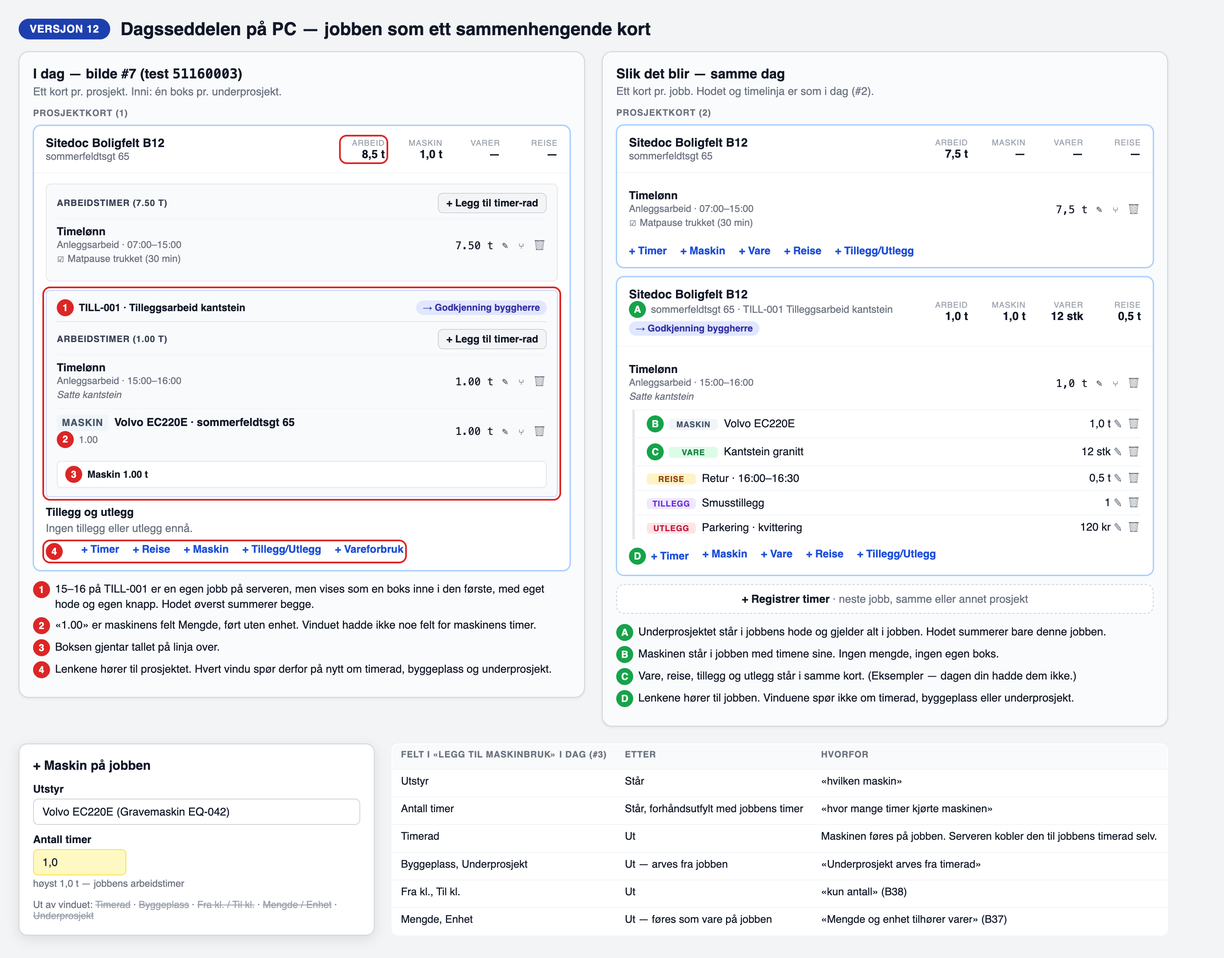
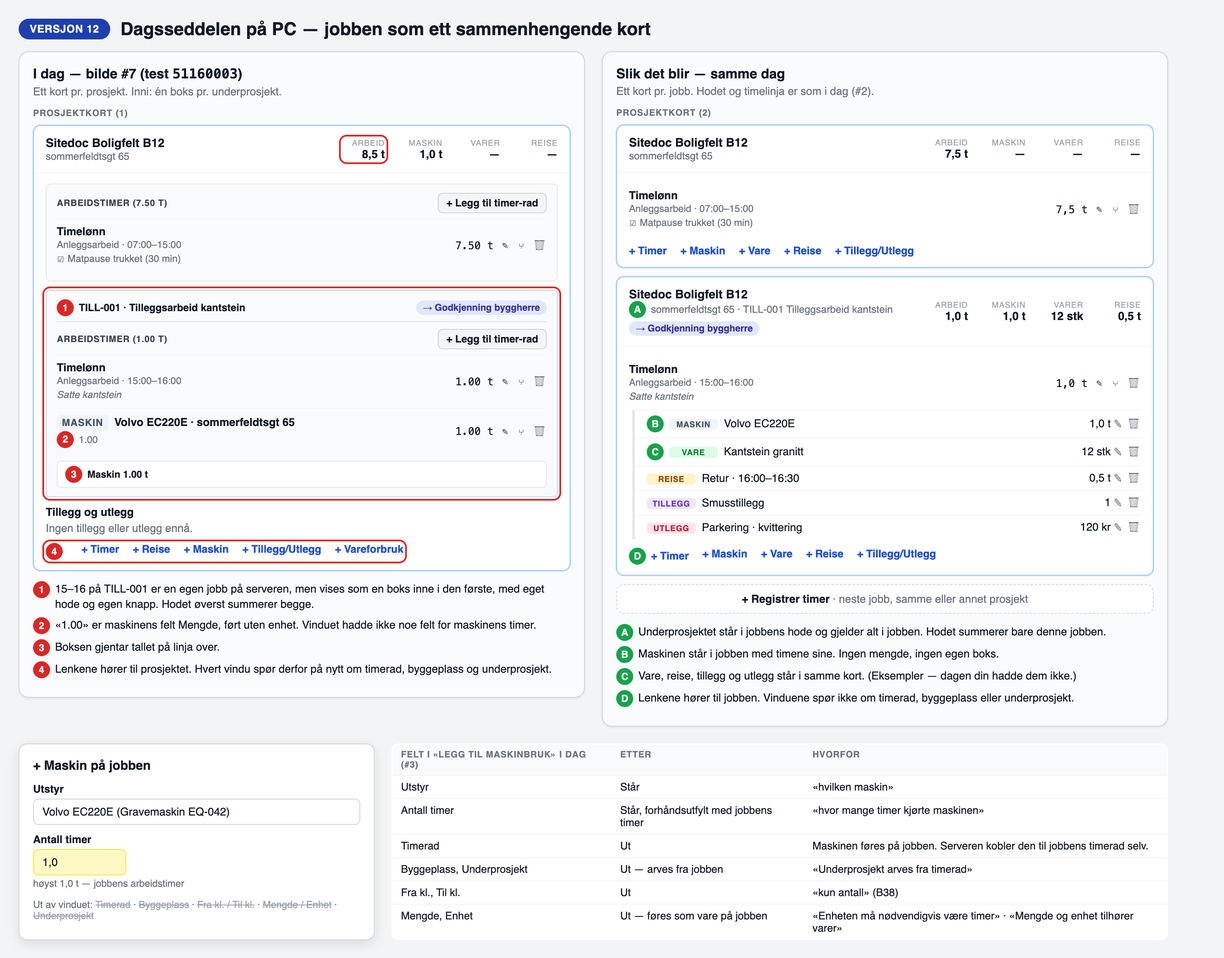
docs(plan): versjon 12 — Kenneths fire presiseringer arbeidet inn i avviksrunden
Maskinen føres bare i timer; mengde føres som vare på jobben (A4, H9 A
snudd av Kenneth). § 4.13 del D: hver type (maskin, vare, tillegg, utlegg,
reise) målt mot maskin-mønsteret. Del E: attesteringens kort viser
allerede alt; hullene kommer fra føringen på PC. B37 gjelder nå bare
prosjekter uten varelager. Skissen tegnet om.

diff --git a/docs/claude/skisser-web-timeforing/skisser-v12.html b/docs/claude/skisser-web-timeforing/skisser-v12.html
@@ -184,7 +184,7 @@ th{background:#f9fafb;font-size:10.5px;letter-spacing:.05em;text-transform:upper
       <tr><td>Timerad</td><td>Ut</td><td>Maskinen føres på jobben. Serveren kobler den til jobbens timerad selv.</td></tr>
       <tr><td>Byggeplass, Underprosjekt</td><td>Ut — arves fra jobben</td><td>«Underprosjekt arves fra timerad»</td></tr>
       <tr><td>Fra kl., Til kl.</td><td>Ut</td><td>«kun antall» (B38)</td></tr>
-      <tr><td>Mengde, Enhet</td><td>Ut — føres som vare på jobben</td><td>«Mengde og enhet tilhører varer» (B37)</td></tr>
+      <tr><td>Mengde, Enhet</td><td>Ut — føres som vare på jobben</td><td>«Enheten må nødvendigvis være timer» · «Mengde og enhet tilhører varer»</td></tr>
     </table>
   </div>
 </div>

diff --git a/docs/claude/web-timeforing-plan.md b/docs/claude/web-timeforing-plan.md
@@ -1,9 +1,9 @@
 ---
 name: web-timeforing-plan
-description: Plan med bilder steg for steg for timeføring på web — «+ Registrer timer» åpner én samlet registrering pr. jobb (fra/til, lønnsart, hva gjorde du, maskiner, varer, tillegg, utlegg), prosjekt og byggeplass utledet, dagen summeres etter hvert, overtid som egen linje mot dagsnormen for datoen, underprosjekt i jobbens hode, firmavalg for maskin med fra–til, og attestering med 13 kjernekolonner der et klikk åpner registreringen og lar attestanten dele opp. Versjon 5: dagsvisningen i attesteringen (B14) og firmavalget for attestantens egne timer (B15). Versjon 6: maskintimer høyst jobbens arbeidstimer, med unntak for døgn-maskiner (w9, § 4.4). Målt mot dagens web og telefon. B1–B23 besvart. Versjon 7: KS av attesteringen mot bilde 6–8 (§ 4.5) — avviksliste K1–K14, bilde 6 og 7 tegnet slik de gjelder, og retteordren w10. Versjon 8: én attestering på firmanivå for prosjektledere (§ 4.6) og hover-tekster (§ 4.8). Versjon 9: B29–B31 besvart — «Attestering» under Prosjekt fjernes med dødkode-liste (§ 4.10), reisen hører til prosjektet (§ 4.7), beskrivelsen står alltid i kortet (§ 4.9). Versjon 10: B32 B og B33 A besvart — reisen ligger i jobbens kort og attesteres med jobben, utreisen på dagens første prosjekt og returen på dagens siste (§ 4.11, w12 og w12m, med migrering). Versjon 11: B34 B besvart — arbeideren bestemmer hvor reisen føres; reisen beholder underprosjektet og byggeplassen han valgte og står i jobben som er ført samme sted (§ 4.11 del A punkt 3); w12 og w12m skrevet om; presiseringen om arbeid målt i § 4.12 — prosjekt og byggeplass og prosjekt og underprosjekt er begge gyldige i dag. Versjon 12: avviksrunde etter Kenneths test av dagsseddelen på PC (§ 4.13) — forklaringen på bilde #7, avvikslista A1–A14, w3 delt i w3a, w3b og w3c og bygget på kortet som finnes, mobildelene venter på web, B37 og B38 åpne.
+description: Plan med bilder steg for steg for timeføring på web — «+ Registrer timer» åpner én samlet registrering pr. jobb (fra/til, lønnsart, hva gjorde du, maskiner, varer, tillegg, utlegg), prosjekt og byggeplass utledet, dagen summeres etter hvert, overtid som egen linje mot dagsnormen for datoen, underprosjekt i jobbens hode, firmavalg for maskin med fra–til, og attestering med 13 kjernekolonner der et klikk åpner registreringen og lar attestanten dele opp. Versjon 5: dagsvisningen i attesteringen (B14) og firmavalget for attestantens egne timer (B15). Versjon 6: maskintimer høyst jobbens arbeidstimer, med unntak for døgn-maskiner (w9, § 4.4). Målt mot dagens web og telefon. B1–B23 besvart. Versjon 7: KS av attesteringen mot bilde 6–8 (§ 4.5) — avviksliste K1–K14, bilde 6 og 7 tegnet slik de gjelder, og retteordren w10. Versjon 8: én attestering på firmanivå for prosjektledere (§ 4.6) og hover-tekster (§ 4.8). Versjon 9: B29–B31 besvart — «Attestering» under Prosjekt fjernes med dødkode-liste (§ 4.10), reisen hører til prosjektet (§ 4.7), beskrivelsen står alltid i kortet (§ 4.9). Versjon 10: B32 B og B33 A besvart — reisen ligger i jobbens kort og attesteres med jobben, utreisen på dagens første prosjekt og returen på dagens siste (§ 4.11, w12 og w12m, med migrering). Versjon 11: B34 B besvart — arbeideren bestemmer hvor reisen føres; reisen beholder underprosjektet og byggeplassen han valgte og står i jobben som er ført samme sted (§ 4.11 del A punkt 3); w12 og w12m skrevet om; presiseringen om arbeid målt i § 4.12 — prosjekt og byggeplass og prosjekt og underprosjekt er begge gyldige i dag. Versjon 12: avviksrunde etter Kenneths test av dagsseddelen på PC (§ 4.13) — forklaringen på bilde #7, avvikslista A1–A14, w3 delt i w3a, w3b og w3c og bygget på kortet som finnes, hver type målt mot maskin-mønsteret og attesteringen målt mot Kenneths presiseringer, mobildelene venter på web, B37 og B38 åpne.
 sist_verifisert_mot_kode: 2026-11-19 (WM1–WM73: develop @ `b8b16571`; WM74–WM92: develop @ `ee7146e5`, etter w1, w2 og w5; WM93–WM108: develop @ `1afb318a`, etter w5b og w7; K1–K14 i § 4.5: develop @ `eedbc7cd`, etter w8, w9 og w9m; FA1–FA27 i § 4.6–4.8: develop @ `57770fc0`; FA16–FA21 på nytt, FA28–FA44 og DK1–DK15 i § 4.7, § 4.9 og § 4.10: develop @ `a5483f48`, 2026-11-20; FA45–FA59 i § 4.11: develop @ `bdf2320f`, 2026-11-20; FA60–FA65 i § 4.11 og FA66–FA70 i § 4.12: develop @ `8c260833`, 2026-11-20; § 4.13 (A1–A14): develop @ `d9354caa`, 2026-11-20)
 eier: fabel (plan) — orkestrator gater kode; Kenneth har vedtatt B1–B13 (§ 8.1)
-status: 🟡 FORSLAG 2026-11-20, versjon 12 — w1, w2, w5, w5b, w7, w8, w9, w9m, w10 del A, w10 del B og w12 er merget (§ 9.1–9.6; develop `c19cad6c`). Ikke bygget: w3 (nå w3a, w3b, w3c), w4, w6, w10c, w11 og w12m. Nytt i versjon 12, uten kode: avviksrunden etter Kenneths test av dagsseddelen på PC (§ 8.13, § 4.13). Dagssiden viser ett kort pr. prosjekt med en boks pr. underprosjekt, ikke ett kort pr. jobb; det forklarer bilde #7. w3 er skrevet om til å bygge på kortet og vinduet som finnes: w3a (kortet pr. jobb, arv og kort-id fra jobben, koblet maskin og vare følger timeraden på serveren), w3b (maskin er utstyr og antall timer) og w3c (resten av gamle w3). Mobildelene er merket «venter på web» i § 9. Åpent til Kenneth: B37 (maskinens mengde og enhet) og B38 (firmavalget for fra–til på maskin). w3a venter ikke på svarene; w3b venter på B37.
+status: 🟡 FORSLAG 2026-11-20, versjon 12 — w1, w2, w5, w5b, w7, w8, w9, w9m, w10 del A, w10 del B og w12 er merget (§ 9.1–9.6; develop `c19cad6c`). Ikke bygget: w3 (nå w3a, w3b, w3c), w4, w6, w10c, w11 og w12m. Nytt i versjon 12, uten kode: avviksrunden etter Kenneths test av dagsseddelen på PC (§ 8.13, § 4.13). Dagssiden viser ett kort pr. prosjekt med en boks pr. underprosjekt, ikke ett kort pr. jobb; det forklarer bilde #7. w3 er skrevet om til å bygge på kortet og vinduet som finnes: w3a (kortet pr. jobb, arv og kort-id fra jobben, koblet maskin og vare følger timeraden på serveren), w3b (maskin er utstyr og antall timer) og w3c (resten av gamle w3). Mobildelene er merket «venter på web» i § 9. Kenneths fire presiseringer samme dag er arbeidet inn: maskinen føres bare i timer, mengde føres som vare på jobben, alle typene følger maskin-mønsteret (§ 4.13 del D), og attesteringens kort viser allerede alt (del E). Åpent til Kenneth: B37 (hvor mengde føres på prosjekt uten varelager) og B38 (firmavalget for fra–til på maskin). w3a venter ikke på svarene; w3b venter på B37.
 ---
 
 # Timeføring på web — plan med bilder (FORSLAG)
@@ -1689,6 +1689,15 @@ står hvilken maskin og hvor mange timer, varene, reisen, tilleggene og utleggen
 «Varer» og «vareforbruk» er lest som det samme: varene som ble brukt på jobben. Kravet er det samme som
 føringene i § 1.
 
+**De fire presiseringene samme dag** (§ 8.13) er arbeidet inn slik:
+
+| Presisering | Hvor i runden |
+|---|---|
+| 1 — lastebilen: 08–10, 2 timer på bilen, 5 m3 grus eller pukk og parkeringsutlegget i samme jobb | Bildet over (høyre kort), A1, A9 og A10. Mengden føres som vare på jobben (A4, B37). |
+| 2 — maskinen føres i timer, og bare i timer | A3 og A4. Nedtrekket «Enhet» og feltet «Mengde» går ut av maskinføringen (w3b). |
+| 3 — maskinen er eksempelet for alle typene | Del D: hver type målt mot maskin-mønsteret. |
+| 4 — attestanten ser alt i sammenheng | Del E: attesteringen målt. |
+
 #### Del A — hva du så på #7, og hvorfor
 
 **Dataene er riktige. Visningen er feil.** 15–16 på TILL-001 er en egen jobb på serveren, og maskinen hører til
@@ -1736,7 +1745,7 @@ den. Dagssiden på PC viser ikke jobber. Den viser ett kort pr. prosjekt, med é
 |---|---|---|
 | Kortet er pr. prosjekt, ikke pr. jobb | Ja (bilde 5). Men tegnet som en ny flate med sju nummererte deler, ikke kortet du liker (#2). | — |
 | Maskin uten timer-felt; «Timerad»; fra–til | Ja (bilde 3, § 5). Fra–til ut til w6. | — |
-| Mengde og enhet på maskin | — | Bilde 3 viser dem ikke, men § 5 og § 7 sier ikke at de går ut. WM104 og H9 A sier at de består. → **B37** |
+| Mengde og enhet på maskin | — | Bilde 3 viser dem ikke, men § 5 og § 7 sier ikke at de går ut. WM104 og H9 A sier at de består. Kenneth 20.11.: de går ut av maskinføringen (A4). |
 | Underprosjekt arves i vinduene | Ja, for føring på jobben (underprosjektet i hodet gjelder alt). | Maskinvinduet som består for døgn-maskin. |
 | Maskin og vare følger ikke når radens underprosjekt byttes | — | Ingen del rører `oppdaterTimerRad`. |
 | Reisen i jobben på dagssiden | — | Bilde 2–5 har sju deler uten reise. § 7 sier «+ Reise … BEVARES uendret», og w12 sier «Reisevinduet på PC står urørt». |
@@ -1751,7 +1760,7 @@ den. Dagssiden på PC viser ikke jobber. Den viser ett kort pr. prosjekt, med é
 | **A1** | «Hvis #2 var et sammenhengende kort, så ville dette være perfekt.» | Kort pr. prosjekt, boks pr. underprosjekt (`WS:1709–1713`, `:2071–2100`). Serveren og attesteringen har jobben som enhet (`KG:136–159`). | w3: jobben som én flate (bilde 2–5). Ikke bygget. | Jobben er ikke enheten på dagssiden. | **w3a:** ett kort pr. jobb, med samme gruppering som attesteringen (`grupperPaaKort`). |
 | **A2** | «jeg liker hvordan #2 ser ut» · «rediger timer funger bra» | Kortets hode med fire tall, timelinja med lønnsart, tid, pause og tekst (`WS:1733–1782`, `:2483–2560`). | Bilde 2–5: ny flate med nummererte deler og uten vinduer. | Planen tegnet om det som virker. | **w3 skrives om:** kortet og timerad-vinduet beholdes. Bilde 2–5 gjelder som innhold og rekkefølge, ikke som utseende. Bildet over erstatter bilde 5 for dagssiden. |
 | **A3** | «hvor mange timer kjørte maskinen og hvilken maskin» | Maskindelen i timerad-vinduet har ikke timer; maskinen får radens (`WS:3798–3843`, `:3481`). «høyst» står under Mengde (`WS:3844–3851`). | § 5: brukeren skriver timene pr. maskin (bilde 3). Ikke bygget. | Timer kan ikke føres der maskinen velges. | **w3b:** maskin = utstyr + antall timer, forhåndsutfylt med jobbens timer, «høyst X t» ved feltet. |
-| **A4** | «Maskin skal heller ikke registrere mengde og enhet. Mengde og enhet tilhører varer.» | Felt i begge vinduene (`WS:3810–3843`, `:5343–5370`), lagres på maskinraden (`D:10113–10114`), vises i attestering, rapport og eksport (`packages/shared/src/utils/timerDetaljRader.ts:715`; `rapport.ts:685`, `:708`). | WM104 og H9 A (kort-id-specen): mengden gjelder produsert mengde og vises i egne kolonner. | Kravet strider mot vedtak. | **B37.** Med anbefalingen: ut av føringen i **w3b**. Lagrede verdier står. |
+| **A4** | «Enheten må nødvendigvis være timer, ikke kubikk og stykk og kvadrat» · «Mengde og enhet tilhører varer.» | Mengde og Enhet (m, m2, m3, kg, tonn, stk) står i begge maskinvinduene (`WS:87`, `:3810–3843`, `:5343–5370`), lagres på maskinraden (`D:10113–10114`) og vises i attestering, rapport og eksport (`packages/shared/src/utils/timerDetaljRader.ts:715`; `rapport.ts:685`, `:708`). | WM104 og H9 A (kort-id-specen): mengden gjelder produsert mengde og vises i egne kolonner. | Vedtaket er snudd av Kenneth 20.11. | **w3b:** feltene går ut av maskinføringen på PC i prosjektkort-modus. Mengden føres som vare på jobben: «Pukk · 5 m3». **Ingen data slettes:** det som alt er lagret på maskinrader, står og vises som før i attestering, rapport og eksport. Det flyttes ikke til varer, fordi raden ikke sier hvilken vare det var (HM22). **B37** gjelder prosjekter uten varelager. |
 | **A5** | «her skal ikke registreres timer fra/til -> kun antall» | Fra og til i maskinvinduet, forhåndsutfylt, og antallet må stemme med dem (`WS:1105–1106`, `:5175–5189`). Timerad-vinduet gir maskinen radens fra–til (`WS:3485–3486`). | B5: firmaet velger. B12 A: prosjektkort-firma får «Nei». w6, ikke bygget. | Feltene står til w6, og B5 lar et firma slå dem på igjen. | **w3b** tar feltene ut på PC i prosjektkort-modus nå. **B38** avgjør om w6 finnes. |
 | **A6** | «Underprosjekt arves fra timerad som standard» | Vinduene for maskin, tillegg, utlegg og reise åpnes fra prosjektet med tomt underprosjekt (`WS:1100–1109`, `:1097–1099`, `:3899–3900`). | § 7: ett valg i jobbens hode gjelder alt i jobben. Ikke bygget. | Ingenting arves. | **w3a:** lenkene står på jobben. Vinduene får jobbens prosjekt, byggeplass, underprosjekt og kort-id, og viser ikke feltene. Unntak: reisen (B34 B). |
 | **A7** | «Det er logiske brister i hvordan data knyttes sammen.» | Bytte av underprosjekt eller byggeplass på en timerad flytter ikke koblet maskin og vare (`D:4278–4300`, `:4376–4402`; `KI:311–323`). Maskin lagres med det vinduet sender (`D:10109–10110`). | Ikke nevnt for arbeiderens retting. Attestantens «hele jobben» flytter alt (w5). | Maskintimer kan stå på et annet underprosjekt enn arbeidet, også i timerapporten. | **w3a, serveren:** koblet maskin og vare følger timeraden. En maskin som føres koblet, lagres med timeradens underprosjekt og byggeplass. Bare PC-veiene; synken røres ikke. Rader som alt avviker, telles først (§ 10). |
@@ -1767,11 +1776,54 @@ den. Dagssiden på PC viser ikke jobber. Den viser ett kort pr. prosjekt, med é
 feltene det har (#4), «Dagens ramme», «Sum i dag», «Send dagen» og «+ Registrer timer». Dagskort-modus røres
 ikke (Kenneth 2026-11-07); `ProsjektGruppe` og `EcoGruppe` brukes av begge moduser og får vakt-test.
 
+#### Del D — hver type målt mot maskin-mønsteret (presisering 3)
+
+Mønsteret: typen henger på jobben, arver jobbens prosjekt, byggeplass og underprosjekt, og har bare feltene
+som hører til typen. `RK` = `apps/web/src/app/dashbord/timer/[id]/ReiseKort.tsx`,
+`KV` = `apps/web/src/components/timer/KortVareforbrukModal.tsx`.
+
+| Type | Vinduet i dag | Åpnes fra | Felt etter w3a og w3b | Felt som går ut av vinduet |
+|---|---|---|---|---|
+| **Maskin** | Utstyr, Timerad, Byggeplass, Antall timer, Fra kl., Til kl., Mengde, Enhet, Underprosjekt (`WS:5230–5388`) | Prosjektet (`WS:1100–1107`) | Utstyr · Antall timer | Timerad, Byggeplass, Fra kl., Til kl., Mengde, Enhet, Underprosjekt |
+| **Vare** | Prosjekt, Timerad, Byggeplass, Vare, Antall med varens enhet (`KV:96–135`) | Prosjektet (`WS:1111`) | Vare · Antall (enheten følger varen) | Prosjekt, Timerad, Byggeplass |
+| **Tillegg** | Tillegg, Antall, Kommentar, Kvittering, Byggeplass, Underprosjekt (`WS:3995`, `:4116–4260`) | Prosjektet (`WS:1109`) | Tillegg · Antall · Kommentar · Kvittering | Byggeplass, Underprosjekt |
+| **Utlegg** | Kategori, Beløp, Kommentar, Kvittering, Byggeplass, Underprosjekt (`WS:4645`, `:4790–4920`) | Prosjektet, via velgeren (`WS:1109`) | Kategori · Beløp · Kommentar · Kvittering | Byggeplass, Underprosjekt |
+| **Reise** | Tur, Retur eller annet kontor, Byggeplass, Underprosjekt (`RK:177`, `:298`). Tiden regnes av reiseregelen. | Prosjektet (`WS:1228–1243`) | Som i dag, med jobbens byggeplass og underprosjekt forhåndsvalgt | Ingen. Arbeideren bestemmer hvor reisen føres (B34 B). |
+
+- **Alle fem åpnes fra prosjektet i dag, ingen fra jobben.** Det er årsaken til at hvert vindu spør om sted på
+  nytt. w3a flytter lenkene til jobben (A6, A11).
+- **Feltene som går ut av vinduet, finnes fortsatt:** de står i jobbens hode og gjelder alt i jobben. Ingen
+  opplysning forsvinner.
+- **Vinduene består som de er i dagskort-modus,** og for en døgn-maskin eller vare som føres uten jobb.
+- **Serveren trenger ingen ny lagring.** Alle fem radtypene har alt kort-id, og vare og maskin har kobling til
+  timerad. Det som mangler, er at PC sender jobbens kort-id (A9) og at koblet maskin og vare følger timeraden
+  (A7).
+
+#### Del E — attesteringen målt mot presisering 4
+
+**Kortet i attesteringen viser allerede alt.** Et klikk på jobbraden åpner jobben med åtte deler: fra–til,
+lønnsart, «Hva gjorde du?», maskiner, varer, tillegg, utlegg og reise
+(`apps/web/src/components/attestering/RegistreringPanel.tsx:337–469`). Lista viser maskin og vare på
+timeradens linje, og tillegg, utlegg og reise som linjer i samme jobb (`KG:136–159`; w10 del B, w12).
+Bildet er `ks-attestering.png` (§ 4.5).
+
+**Det attestanten likevel ikke kan stole på, kommer fra føringen på PC:**
+
+| Hull | Årsak | Retting |
+|---|---|---|
+| Tillegg og utlegg kan stå i feil jobb når dagen har to jobber på samme sted | PC sender ikke kort-id; serveren velger den eldste jobben med samme nøkkel (A9). | w3a |
+| Maskintimene kan stå på et annet underprosjekt enn arbeidet i timerapporten, selv om attesteringen viser dem på jobbens linje | A7. | w3a, serveren |
+| Mengden på en maskin («1.00») sier ikke hva som er målt | A4, HM22. | w3b: nye føringer er varer. Gamle står som de er. |
+| Eldre rader uten kort-id står i et samlekort, ikke i en jobb | WM107. Radene er ført før kort-id fantes. | Ingen. Vedtatt (H13): gamle rader kobles ikke automatisk. |
+
+Attesteringen trenger altså ingen ny del for presisering 4. Den blir riktig når føringen blir det.
+
 #### Del C — w3 delt i tre
 
 1. **w3a — kortet pr. jobb.** Visningen og arven. A1, A6–A12. Ingen felt forsvinner fra vinduet «Rediger
    timer-rad». Ingen migrering. Kan bestilles nå.
-2. **w3b — maskin er utstyr og antall timer.** A3–A5 og A13. Venter på B37. Ingen migrering.
+2. **w3b — maskin er utstyr og antall timer.** A3–A5 og A13. Venter på B37, fordi mengde da bare kan føres
+   der prosjektet har varelager. Ingen migrering.
 3. **w3c — resten av gamle w3.** Overtid som egen linje med én gang (B8), «Hva gjorde du?» påkrevd (B6),
    underprosjektet i jobbens hode for hele jobben med knapper (B11), «Del jobben», ekte «Ingen byggeplass» (FA70)
    og fordelingen av maskintimer på linjene. Bestilles etter at du har testet w3a og w3b.
@@ -1797,8 +1849,8 @@ ikke (Kenneth 2026-11-07); `ProsjektGruppe` og `EcoGruppe` brukes av begge modus
 | **Fordelingen på timerader** | Finnes på telefonen, i Bekreft dag (WM33). Web har den ikke; web gir maskinen radens timer (WM34). | Web bruker **samme fordeling**. Regelen flyttes fra `M/utils/tilleggPaaKort.ts` til `packages/shared`, og begge bruker den. Ingen ny kopi. | Nei. |
 | **Maskin med egne timer** | På PC får en maskin ført i timerad-vinduet alltid radens timer (WM34). | Brukeren skriver timene pr. maskin (bilde 3). | Nei. |
 
-- ⚠ **Versjon 12 (§ 4.13):** maskinens mengde og enhet er ikke nevnt i tabellen over. Kenneth 20.11.: de hører
-  til varer (B37). Firmavalget for fra–til er B38. «Timerad» trengs ikke fra en jobb: serveren kobler selv (A11).
+- ⚠ **Versjon 12 (§ 4.13):** maskinens mengde og enhet er ikke nevnt i tabellen over. Kenneth 20.11.: maskinen
+  føres bare i timer, og mengde hører til varer i jobben (A4; B37 gjelder prosjekter uten varelager). Firmavalget for fra–til er B38. «Timerad» trengs ikke fra en jobb: serveren kobler selv (A11).
 - **Det som ikke endres:** R24, G5, taket på serveren, `syncBatch`, og alt som er lagret. 🟡 Taket på serveren og
   `syncBatch` er foreslått endret i § 4.4 (w9, B22).
 - **Jobb med både ordinær tid og overtid:** systemet fordeler maskintimene på linjene selv, som telefonen gjør. I
@@ -1847,7 +1899,7 @@ dagskortet). Ett unntak: firmavalget «maskin føres med fra–til» gjelder beg
 | «Hva gjorde du?» valgfritt på web | `WS:3638` | **ENDRES** (B6): påkrevd pr. jobb før «Send dagen», som på telefonen. |
 | Maskiner etter timeradene og varer i egen liste i kortet | `WS:2173–2194`, `:1699–1715` | **ENDRES:** jobben vises samlet (bilde 5). |
 | «+ Reise», del opp, slett, dagens ramme, «Send dagen» | `WS` | **BEVARES** uendret. ⚠ Versjon 12 (A8, § 4.13): «+ Reise» flyttes til jobben, og reisen vises i jobbens kort. Vinduet og feltene består. |
-| Mengde og enhet på maskin i føringen | `WS:3810–3843`, `:5343–5370` | ⚠ **UT av føringen på PC i prosjektkort-modus hvis B37 besvares med A eller B** (Kenneth 2026-11-20). Lagrede verdier og kolonnene i attestering, rapport og eksport består. |
+| Mengde og enhet på maskin i føringen | `WS:3810–3843`, `:5343–5370` | ⚠ **UT av føringen på PC i prosjektkort-modus** (Kenneth 2026-11-20, presisering 2 i § 8.13; A4). Mengden føres som vare på jobben. Lagrede verdier og kolonnene i attestering, rapport og eksport består. **BEVARES** i dagskort-modus. |
 | Bøtteboksen i kortet: hodet «Arbeidstimer (N t)», «+ Legg til timer-rad» pr. boks og «Maskin X t» | `WS:2233–2253`, `:2315–2321` | ⚠ **UT i prosjektkort-modus** (A11, § 4.13): jobben har én rekke lenker, og tallene står i kortets hode. **BEVARES** i dagskort-modus. |
 | Varen i kortet uten retting og sletting | `WS:1788–1804` | **ENDRES** (A10): varen står i jobben med penn og søppelbøtte. |
 | «+ Nytt prosjektkort» | `WS:680–682`, `:992`; `packages/shared/src/i18n/nb.json:406` | **ENDRES** (B1): heter «+ Registrer timer», og tilbyr også prosjekter som alt har kort (§ 5.4, WM47). |
@@ -1881,13 +1933,14 @@ dagskortet). Ett unntak: firmavalget «maskin føres med fra–til» gjelder beg
 ## 8. Åpne spørsmål til Kenneth
 
 B1–B36 er besvart (§ 8.1–8.12). **To spørsmål er åpne etter versjon 12: B37 og B38.** Begge kommer av
-Kenneths ord 20.11. (§ 8.13) der de strider mot vedtak. **w3a venter ikke på svarene. w3b venter på B37.**
+Kenneths ord 20.11. (§ 8.13). Vedtaket H9 A om maskinens mengde er snudd av Kenneth samme dag (A4, § 4.13);
+B37 gjelder bare følgen for prosjekter uten varelager. **w3a venter ikke på svarene. w3b venter på B37.**
 Bildet står i § 4.13.
 
 | # | Spørsmål | Alternativer | Anbefaling |
 |---|---|---|---|
-| **B37** | **Skal maskinens felt Mengde og Enhet ut av føringen?** Ordene dine: «Maskin skal heller ikke registrere mengde og enhet. Mengde og enhet tilhører varer. Alternativet er å legge til en varelinje over enhet og mengde.» Vedtaket som står, er H9 A i kort-id-specen: maskinens mengde vises i egne kolonner, «Maskinmengde» og «Maskinenhet», fordi feltet ikke sier hva som er målt. Feltene finnes i begge vinduene på PC, på telefonen, i attesteringen, i timerapporten og i eksporten (A4, § 4.13). | **A:** feltene går ut av føringen på PC i prosjektkort-modus. Mengde føres som vare på jobben, med «+ Vare» i samme kort. Det som alt er lagret, står og vises som før i attestering, rapport og eksport. Dagskort-modus og telefonen røres ikke. **B:** som A, og i tillegg en varelinje i maskinvinduet (vare og mengde, enheten fra varen), som lagres som vare på jobben. **C:** som i dag. | **A.** I kortet står «+ Vare» ved siden av «+ Maskin», så varelinja i B blir samme ting to steder. **Konsekvens av A og B:** «+ Vare» finnes bare på prosjekter med varelager (`packages/shared/src/utils/prosjektkort.ts:206–215`). På et prosjekt uten varelager kan mengde da ikke føres på dagen. Hvor mange maskinrader som har mengde i dag, er ikke talt (§ 10). |
-| **B38** | **Skal et firma kunne slå på fra–til for maskin?** Ordene dine 20.11.: «her skal ikke registreres timer fra/til -> kun antall.» Vedtaket som står, er B5 («la firma velge») med B12 A: firma i prosjektkort-modus og nye firma får «Nei», firma i dagskort-modus får «Ja». Delen heter w6 og er ikke bygget: ny kolonne i firmainnstillingene (migrering), innstillingssiden, PC og telefon. | **A:** ingen firmainnstilling. I prosjektkort-modus føres maskin alltid med antall timer. Dagskort-modus beholder feltene som i dag. **w6 utgår:** ingen migrering, ingen ny innstilling, ingenting på telefonen. Lagrede klokkeslett røres ikke. **B:** B5 står. Feltene går ut på PC nå (w3b), og w6 bygges senere, så et firma kan slå dem på igjen. | **A.** Du har sagt «antall, ikke fra–til» tre ganger (§ 1, K19 og 20.11.). Klokkeslettene brukes ikke i rapport eller eksport (WM10). **Med begge svarene** går feltene ut av føringen på PC i prosjektkort-modus i w3b. Forskjellen er bare om w6 bygges. |
+| **B37** | **Hvor føres mengden når prosjektet ikke har varelager?** Du har sagt at maskinen føres bare i timer, og at mengde hører til varer i jobben (presisering 1 og 2, § 8.13). Det bygges i w3b: «Mengde» og «Enhet» går ut av maskinføringen, og 5 m3 pukk føres med «+ Vare» på jobben. Men «+ Vare» finnes bare på prosjekter med varelager (`packages/shared/src/utils/prosjektkort.ts:206–215`), og varen må ligge i firmaets varekatalog. I dag kan en sjåfør føre «5 m3» i maskinvinduet på alle prosjekter. | **A:** mengde føres bare som vare. På et prosjekt uten varelager kan mengde ikke føres på dagen før firmaet slår på varelager der. Ingen ny lagring. **B:** som A, og i tillegg en fri mengdelinje på jobben (tekst, mengde, enhet) på prosjekter uten varelager. Ny lagring og egen del. | **A.** Det gir én måte å føre mengde på, og linja sier hva som er målt. B lager en vare nummer to som ikke finnes i katalogen. **w3b venter på svaret,** fordi A tar bort en mulighet på prosjekter uten varelager. Hvor mange prosjekter med timeføring som mangler varelager, og hvor mange maskinrader som har mengde, er ikke talt (§ 10). |
+| **B38** | **Skal et firma kunne slå på fra–til for maskin?** Ordene dine 20.11.: «her skal ikke registreres timer fra/til -> kun antall.» Vedtaket som står, er B5 («la firma velge») med B12 A: firma i prosjektkort-modus og nye firma får «Nei», firma i dagskort-modus får «Ja». Delen heter w6 og er ikke bygget: ny kolonne i firmainnstillingene (migrering), innstillingssiden, PC og telefon. | **A:** ingen firmainnstilling. I prosjektkort-modus føres maskin alltid med antall timer. Dagskort-modus beholder feltene som i dag. **w6 utgår:** ingen migrering, ingen ny innstilling, ingenting på telefonen. Lagrede klokkeslett røres ikke. **B:** B5 står. Feltene går ut på PC nå (w3b), og w6 bygges senere, så et firma kan slå dem på igjen. | **A.** Du har sagt «antall, ikke fra–til» fire ganger (§ 1, K19, #3 og lastebilen 20.11.). Klokkeslettene brukes ikke i rapport eller eksport (WM10). **Med begge svarene** går feltene ut av føringen på PC i prosjektkort-modus i w3b. Forskjellen er bare om w6 bygges. |
 
 **Besvart (§ 8.12) — B35 slik det ble stilt:**
 
@@ -2149,7 +2202,7 @@ delene krever ingen.
 | **w1** | Vare ført på PC kobles til jobben (g). Avvik: korte merker med forklaring på hover, og teksten «Maskin uten timerad» (B7, WM22). Datoen som dd.mm. og årsvelger ved ukevalget (tillegget). | `apps/web/src/components/timer/KortVareforbrukModal.tsx`, `WS`, `apps/web/src/components/attestering/*`, `apps/web/src/app/dashbord/firma/timer/attestering/page.tsx`, i18n | Varen står på timeradens linje i attesteringen. Maskinlinjene er like høye som de andre. Datoen er «17.11.», og året byttes i én handling. |
 | **w2** | «+ Registrer timer» (B1): knappen på Mine timer og på dagen, dagen lages stille, ny jobb på et prosjekt som alt har kort (sender `kortId`), gjenåpning når dagen er sendt, byggeplass på første rad (h), prosjekt og byggeplass fra toppen (B2 trinn 3). | `apps/web/src/app/dashbord/timer/mine/page.tsx`, `WS`, `D` (bare hvis `tilfoyTimerRad` ikke tar en ny `kortId`, WM59), i18n, hjelpeteksten | Ett trykk fra Mine timer til utfylt jobb. Neste jobb med samme knapp. |
 | **w3a** | **Kortet pr. jobb** (§ 4.13, A1, A6–A12; versjon 12). Dagssiden i prosjektkort-modus viser ett kort pr. jobb, med samme gruppering som attesteringen (`grupperPaaKort`). Kortets hode er som i dag og viser byggeplass og underprosjekt for jobben; de fire tallene gjelder jobben. I kortet: timelinjene som i dag, så jobbens maskiner, varer, reise, tillegg og utlegg, hver med penn og søppelbøtte. Én rekke lenker pr. jobb: «+ Timer», «+ Maskin», «+ Vare», «+ Reise», «+ Tillegg/Utlegg». Vinduene som åpnes fra jobben, får jobbens prosjekt, byggeplass, underprosjekt og kort-id og viser ikke feltene Byggeplass, Underprosjekt og Timerad; reisevinduet beholder feltene, forhåndsvalgt (B34 B). «+ Timer» gir en ny linje i samme jobb. Bøtteboksen, hodet «Arbeidstimer (N t)» med egen knapp og «Maskin X t» går ut i prosjektkort-modus. Eldre rader uten kort-id står i ett samlekort sist. **Serveren (A7):** når underprosjekt eller byggeplass byttes på en timerad, følger koblet maskin og vare med; en maskin som føres koblet fra PC, lagres med timeradens underprosjekt og byggeplass. Synken røres ikke. Vinduet «Rediger timer-rad» står med feltene det har. Dagskort-modus røres ikke og får vakt-test. Ingen migrering. Koderen leverer løsning med skjermbilde før kode. | `WS` (`ProsjektkortSamleside`, `ProsjektGruppe` og `EcoGruppe` bare i kortmodus, vinduene for maskin, tillegg, utlegg og reise), `apps/web/src/components/timer/KortVareforbrukModal.tsx`, `packages/shared/src/utils/prosjektkort.ts` (summer pr. jobb), `packages/shared/src/utils/kortGruppering.ts` (brukes, endres ikke), `D` (`oppdaterTimerRad`, `maskin.tilfoy`, `maskin.oppdater`), `apps/api/src/routes/vareforbruk.ts` (bare hvis varen må flyttes der), i18n, hjelpeteksten for siden, `timer.md`, `web.md`, `api.md`. Ikke `apps/mobile`. | Bildet `v12-jobbkort.png`, høyre side: dagen fra #7 er to kort. Maskinen står i TILL-001-kortet. «+ Maskin» fra det kortet spør bare om utstyr og timer. Bytter du underprosjekt på raden, står maskinen på det nye underprosjektet også i timerapporten. |
-| **w3b** | **Maskin er utstyr og antall timer** (§ 4.13, A3–A5, A13; versjon 12). Maskindelen i timerad-vinduet og maskinvinduet fra en jobb: Utstyr og Antall timer, forhåndsutfylt med jobbens arbeidstimer, «høyst X t» ved feltet. Fra kl. og Til kl. går ut i prosjektkort-modus. Mengde og Enhet går ut (B37 A eller B); lagrede verdier står. Maskindelen er lik i «Legg til timer-rad» og «Rediger timer-rad» og viser jobbens maskiner. Hjelpeteksten «Hver maskin får radens timer …» skrives om. Maskinvinduet for døgn-maskin uten jobb og hele dagskort-modus står som i dag. Ingen migrering. **Venter på B37.** | `WS` (`TimerRadDialog`, `MaskinRadDialog`), i18n (`timer.maskinSeksjon.hint`), hjelpeteksten, `timer.md`, `maskin.md`, kort-id-specen (H9). Ikke `D`, ikke `apps/mobile`. | Bildet `v12-jobbkort.png`, nederst: maskinvinduet har to felt. «1.00» under maskinen er borte. |
+| **w3b** | **Maskin er utstyr og antall timer** (§ 4.13, A3–A5, A13; versjon 12). Maskindelen i timerad-vinduet og maskinvinduet fra en jobb: Utstyr og Antall timer, forhåndsutfylt med jobbens arbeidstimer, «høyst X t» ved feltet. Fra kl. og Til kl. går ut i prosjektkort-modus. Mengde og Enhet går ut (Kenneth 2026-11-20, presisering 2); lagrede verdier står og vises som før. Maskindelen er lik i «Legg til timer-rad» og «Rediger timer-rad» og viser jobbens maskiner. Hjelpeteksten «Hver maskin får radens timer …» skrives om. Maskinvinduet for døgn-maskin uten jobb og hele dagskort-modus står som i dag. Ingen migrering. **Venter på B37** (mengde på prosjekt uten varelager). | `WS` (`TimerRadDialog`, `MaskinRadDialog`), i18n (`timer.maskinSeksjon.hint`), hjelpeteksten, `timer.md`, `maskin.md`, kort-id-specen (H9). Ikke `D`, ikke `apps/mobile`. | Bildet `v12-jobbkort.png`, nederst: maskinvinduet har to felt. «1.00» under maskinen er borte. |
 | **w3c** | ⚠ Resten av gamle w3, etter Kenneths test av w3a og w3b (versjon 12). Bygges på kortet, ikke som ny flate (A2). Innholdet og rekkefølgen er bilde 2–5: underprosjekt i hodet som knapper eller søkbar nedtrekk (B11), overtidslinja mot normen for datoen (B8, B4), «Hva gjorde du?» påkrevd (B6), fordelingen av maskintimer på linjene i delt kode, «Del jobben». `kortId` på tillegg og utlegg ligger i w3a, og maskinlinja i w3b. «Ingen byggeplass» blir stående når brukeren velger det, som på telefonen (FA70, § 4.12; versjon 11). | `WS`, `packages/shared` (fordelingen, flyttet fra `M/utils/tilleggPaaKort.ts`), ikke `apps/mobile` (telefonen bytter til den delte fordelingen senere, § 8.13), i18n, hjelpeteksten for siden | Overtid står som egen linje med én gang. Underprosjektet byttes for hele jobben i kortets hode. |
 | **w4** | Innsjekk-loggen som kilde for prosjekt, byggeplass og foreslått tid (B2 trinn 2). | `apps/api/src/routes/mannskap.ts` (ny leser for egen bruker og dato), `WS`, `mine/page.tsx` | Jobben åpnes med stedet og tiden fra innsjekken. |
 | **w5** | Attesteringen: 11 kjernekolonner som standard med «Tilbakestill til standard» (B9), klikk åpner registreringen, underprosjekt for hele jobben, «Del opp» ved klokkeslett, retting for alle med attesteringsrett (B10). | `apps/web/src/components/attestering/*`, `packages/shared/src/utils/timerDetaljRader.ts` (standardutvalget, kolonnen «vare med mengde»), `D` (`flyttTimerRadEco` utvidet til hele jobben; deling med «eget kort»; kravene i `:7251`, `:2998`, `:7497`), i18n, hjelpeteksten | Bilde 6–8. |
@@ -2307,7 +2360,10 @@ Tester: `attestering-tabell.test.tsx` (blokkene merket «w10a»), `attestering-t
   `sheet_timer_id` satt, der underprosjektet eller byggeplassen avviker fra timeradens; og det samme for
   `varelager.vareforbruk`. Tallet sier om A7 bare er en mulighet eller alt har skjedd. Retting av rader som
   finnes, er en datamigrering og blir et eget spørsmål til Kenneth med tallet.
-- Hvor mange maskinrader som har mengde i dag, i test og prod (B37).
+- Hvor mange maskinrader som har mengde i dag, og hvor mange prosjekter med timeføring som ikke har
+  varelager, i test og prod (B37).
+- Om en vare i varelageret trekker ned en beholdning når den føres på dagen. Det avgjør om transportert masse
+  («5 m3 pukk» kjørt med lastebil) kan føres som vare uten bivirkning. Varelager-koden er ikke lest.
 - Bristen i A7 er lest i koden og ikke kjørt: bytte av underprosjekt på en timerad med koblet maskin.
 - Om `vareforbruk.hentMineForDato` sender `kortId` og `sheetTimerId`. Typen `KortVare` på dagssiden har dem
   ikke (`WS:1589–1595`). w3a trenger dem for å legge varen i jobben.

diff --git a/docs/claude/STATUS.md b/docs/claude/STATUS.md
@@ -12,7 +12,7 @@
 > - Hvis ingen av delene: kort fri beskrivelse (eller tom)
 
 **Sist oppdatert:** 2026-11-20
-- 2026-11-20 — **`web-timeforing-plan.md` versjon 12 + `skisser-web-timeforing/v12-jobbkort.png` (ny, kilde `skisser-v12.html`): avviksrunde etter Kenneths test av dagsseddelen på PC** (branch `docs/fabel`, docs-only, Fabel, 🟡 FORSLAG, B37–B38 til Kenneth; ordre fra orkestrator samme dag, Kenneths ord i § 8.13): målt mot develop @ `d9354caa` (lik test `51160003` i `apps` og `packages`) — dagssiden viser ett kort pr. prosjekt med en boks pr. underprosjekt, ikke ett kort pr. jobb, og det forklarer bilde #7; ny § 4.13 med forklaringen, avvikslista A1–A14 og w3 delt i w3a (kortet pr. jobb, arv og kort-id fra jobben, koblet maskin og vare følger timeraden på serveren), w3b (maskin er utstyr og antall timer) og w3c (resten); § 8 har B37 (maskinens mengde og enhet mot H9 A) og B38 (firmavalget for fra–til, B5/w6); § 9 merker mobildelene «venter på web», w13 utgått, § 9.5 og § 9.6 ført som merget; § 10 har tellingen som må kjøres før w3a. Ingen kode.
+- 2026-11-20 — **`web-timeforing-plan.md` versjon 12 + `skisser-web-timeforing/v12-jobbkort.png` (ny, kilde `skisser-v12.html`): avviksrunde etter Kenneths test av dagsseddelen på PC** (branch `docs/fabel`, docs-only, Fabel, 🟡 FORSLAG, B37–B38 til Kenneth; ordre fra orkestrator samme dag, Kenneths ord i § 8.13): målt mot develop @ `d9354caa` (lik test `51160003` i `apps` og `packages`) — dagssiden viser ett kort pr. prosjekt med en boks pr. underprosjekt, ikke ett kort pr. jobb, og det forklarer bilde #7; ny § 4.13 med forklaringen, avvikslista A1–A14 og w3 delt i w3a (kortet pr. jobb, arv og kort-id fra jobben, koblet maskin og vare følger timeraden på serveren), w3b (maskin er utstyr og antall timer) og w3c (resten); Kenneths fire presiseringer samme dag arbeidet inn (maskinen føres bare i timer, mengde som vare på jobben, hver type målt mot maskin-mønsteret i del D, attesteringen målt i del E); § 8 har B37 (hvor mengde føres på prosjekt uten varelager) og B38 (firmavalget for fra–til, B5/w6); § 9 merker mobildelene «venter på web», w13 utgått, § 9.5 og § 9.6 ført som merget; § 10 har tellingen som må kjøres før w3a. Ingen kode.
 - 2026-11-20 — **`web-timeforing-plan.md` versjon 11 + `skisser-web-timeforing/ks-attestering.png` tegnet om: Kenneths svar på B34 — arbeideren bestemmer hvor reisen føres; w12 og w12m skrevet om** (branch `docs/fabel`, docs-only, Fabel, 🟡 FORSLAG, B35 til Kenneth; ordre (5) fra orkestrator samme dag): målt mot develop @ `8c260833` (FA60–FA65) — reisevinduet har på PC og telefon to uavhengige felt, byggeplass og valgfritt underprosjekt; reiseraden bærer alltid byggeplassen (kjøretiden regnes fra den), så «prosjekt – byggeplass» er reise uten underprosjekt; underprosjektet har ingen byggeplass. Ny regel for hvilken jobb reisen står i: lik underprosjekt først, så lik byggeplass, så første jobb for utreise og siste for retur; regelen endrer aldri prosjekt, underprosjekt eller byggeplass på reisen. Attestanten kan rette reisens underprosjekt under «Føres på» i kortet. Kenneths presisering om arbeid («prosjekt og byggeplass eller prosjekt og underprosjekt må være gyldige valg for hvor arbeid utføres») er målt i § 4.12 (FA66–FA70): begge er gyldige i dag på telefon, PC og server, nøkkelen er uendret, og PC kan ikke alltid føre arbeid uten byggeplass. B35 gjelder nå arbeid og reise; w13 bare med B35 B. Alt som sto «med B34 A», er tatt ut. `prosjektkort-kortid-spec.md` § 2.3: K3 er ikke et krav for reise. Ingen fil opprettet eller slettet i docs/claude — tellingene er uendret.
 - 2026-11-20 — **`web-timeforing-plan.md` § 9.5 + `hjelpetekster.md` + `timer.md` + `api.md` + `web.md` + `redesign-paritetssjekkliste.md` + `prosjektkort-kortid-spec.md` § 12 + `skisser-web-timeforing/w10a-*.png`: web-timeføring w10 del A — retting i kortet, cellene bare lesing, avkrysning pr. jobb** (branch `feat/web-timer-w10a`, kode + docs, web-timer-w5): R3, R10, R21 og R22 snudd; `splittRad` arver beskrivelsen.
 - 2026-11-20 — **`web-timeforing-plan.md` versjon 10 + `skisser-web-timeforing/ks-attestering.png` tegnet om: Kenneths svar på B32–B33 — reisen i jobbens kort (w12, w12m)** (branch `docs/fabel`, docs-only, Fabel, 🟡 FORSLAG, B34 til Kenneth; ordre (4) fra orkestrator samme dag): målt mot develop @ `bdf2320f` (FA45–FA59) — databasen har ingen sperre mot kort-id på reise, regelen bor i `sikreKortId` og skriveveiene; valideringen krever lik nøkkel og ville avvist reisen; attesteringen går på rad-id-er; telefonen tømmer kort-id på reise ved hver synk; retningen kan mangle. Nytt: § 4.11 (regelen for hvilken jobb reisen står i, hvor koblingen settes, attesteringen, telefonen, utfylling av kort-id uten ny kolonne med telling og gate-SQL, eldre apper, B33 A, tester og funksjonsinventar), w12 og w12m i § 9, w10 A10 utgått og A1/A6 justert. `prosjektkort-kortid-spec.md` (§ 2.2, § 2.3, § 3.4, G8, E2) og `timer-gps-helhetsplan.md` (lag 4) har fått merke om det som er snudd. Ingen fil opprettet eller slettet i docs/claude — tellingene er uendret.
